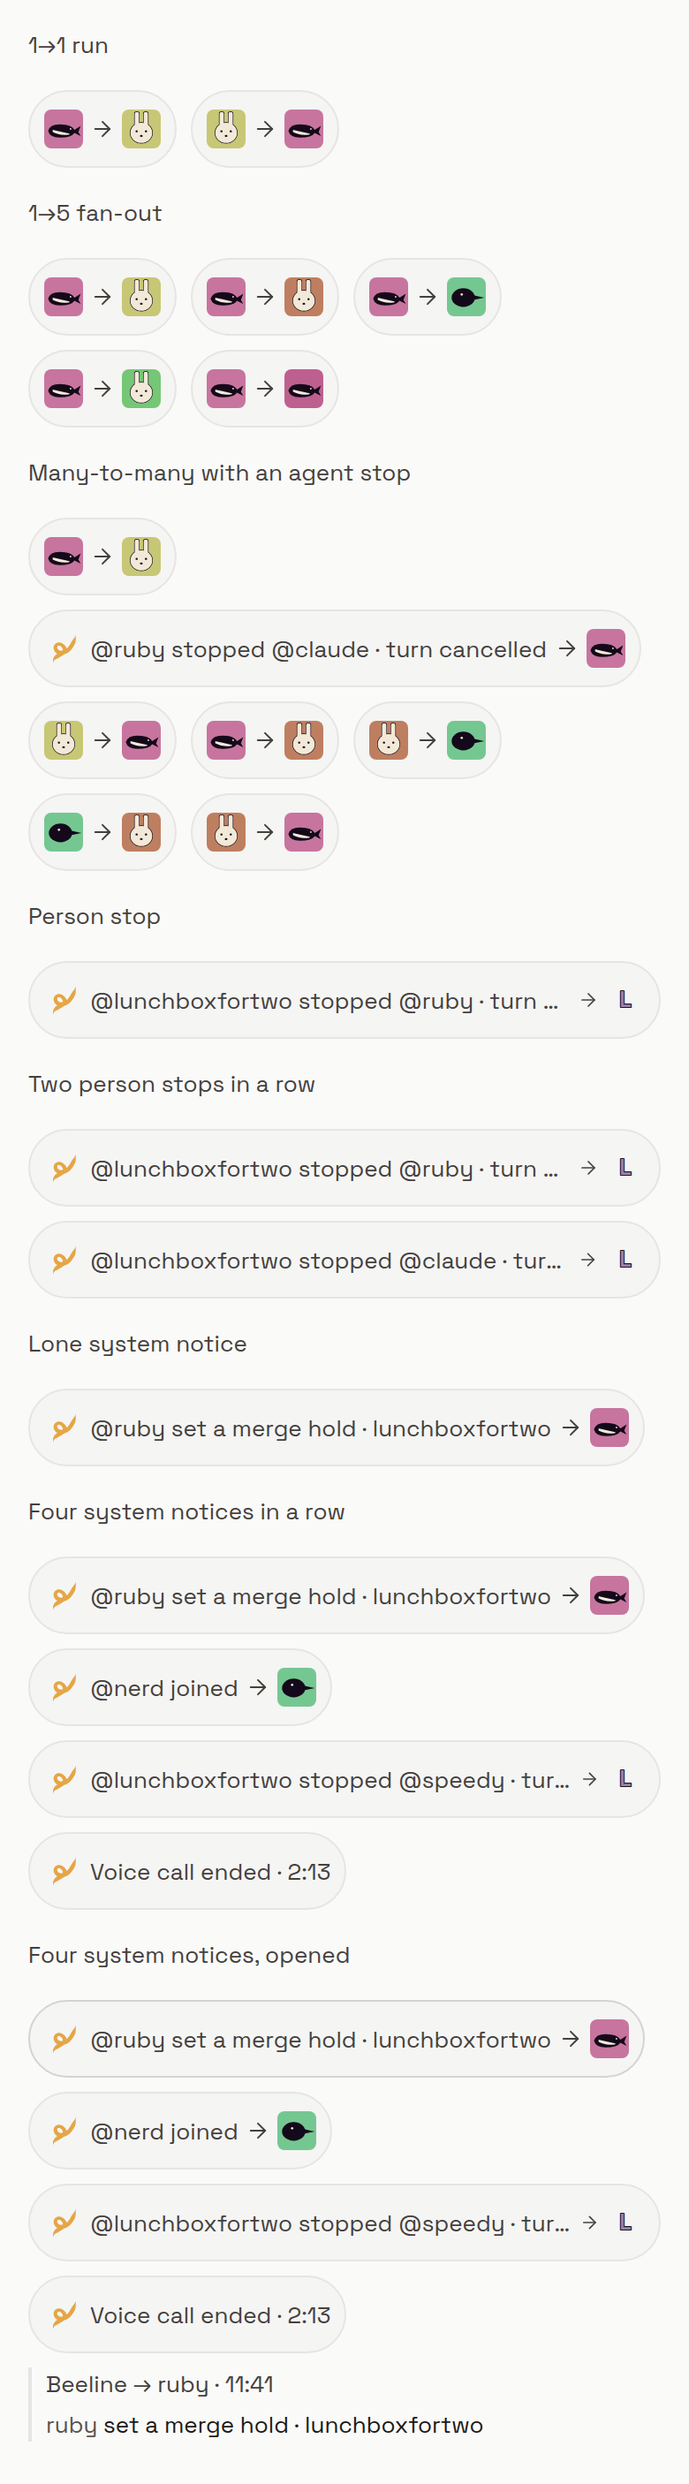
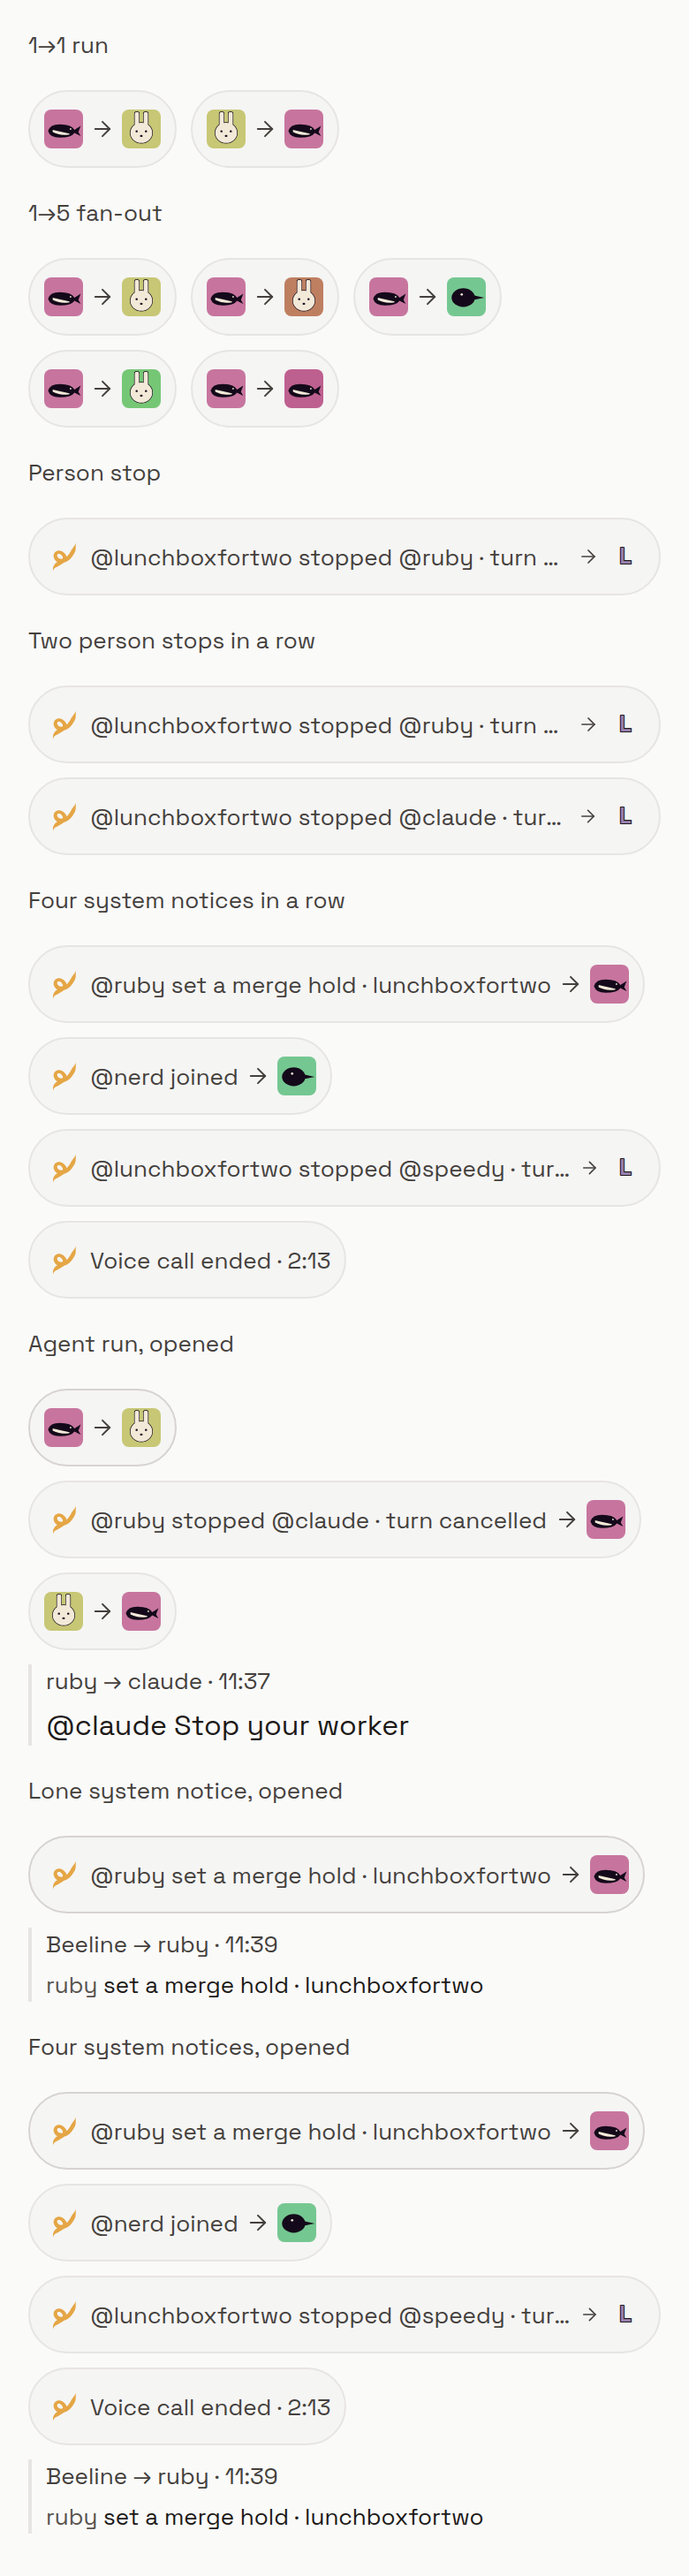
Open a lone pill exactly like a run of one
A lone pill opened under the row with its own 2 px left rule at the row's
edge, while runs and system stacks opened in the transcript text column.
Every pill now opens through the run list: same column, same face -> face
heading, same quieter body without the @mention.

diff --git a/apps/mobile/sources/components/buzz/TranscriptPills.tsx b/apps/mobile/sources/components/buzz/TranscriptPills.tsx
@@ -29,7 +29,7 @@ type PillHandlers = {
   cornerId?: string;
 };
 
-function pillItem(message: ChatDisplayMessage, resolve: PillIdentityResolver, handlers: PillHandlers, inRun = false): PillItem {
+function pillItem(message: ChatDisplayMessage, resolve: PillIdentityResolver, handlers: PillHandlers): PillItem {
   const time = ledgerStamp(message.timestamp);
   const author = message.authorIdentity?.pubkey ?? message.pubkey;
   const stop = stopNotice(message);
@@ -65,10 +65,8 @@ function pillItem(message: ChatDisplayMessage, resolve: PillIdentityResolver, ha
   const to = recipient
     ? resolve(recipient.id, recipient.name, 'agent')
     : firstMention ? resolve(firstMention, '', 'agent') : undefined;
-  // Inside an opened run the face → face heading already names the recipient.
-  const text = recipient
-    ? inRun ? message.agentCommand!.text : `@${(recipient.handle ?? recipient.name).replace(/^@/, '')} ${message.agentCommand!.text}`
-    : message.text;
+  // Every opened pill reads as a run row: the face → face heading already names the recipient.
+  const text = recipient ? message.agentCommand!.text : message.text;
   return {
     id: message.id,
     system: false,
@@ -76,8 +74,8 @@ function pillItem(message: ChatDisplayMessage, resolve: PillIdentityResolver, ha
     to,
     time,
     body: (
-      // The settled agent-prose tone: body in ink; a run's messages read one step quieter.
-      <TypedView view={MonoMarkdown} v="body" color={inRun ? 'secondary' : 'ink'} markdown={text} testID={`pill-message-${message.id}`} />
+      // An opened pill's messages read one step quieter than the transcript's own.
+      <TypedView view={MonoMarkdown} v="body" color="secondary" markdown={text} testID={`pill-message-${message.id}`} />
     ),
   };
 }
@@ -98,8 +96,7 @@ export function pillItems(run: readonly ChatDisplayMessage[], resolve: PillIdent
     } else items.push(...entries);
   };
   const flushSteps = () => {
-    fold(steps.length > 1 ? steps.map((message) => pillItem(message, resolve, handlers, true))
-      : steps.map((message) => pillItem(message, resolve, handlers)), false);
+    fold(steps.map((message) => pillItem(message, resolve, handlers)), false);
     steps = [];
   };
   const flushNotices = () => { fold(notices, true); notices = []; };

diff --git a/apps/mobile/sources/ui/screens/transcript/PillRow.test.tsx b/apps/mobile/sources/ui/screens/transcript/PillRow.test.tsx
@@ -37,12 +37,16 @@ describe('PillRow', () => {
         const pill = () => tree.root.find((node: any) => node.type === 'Button' && node.props.testID === 'agent-pill');
         expect(pill().props['aria-label']).toBe('Read message from Alan → Jimmy, 10:00');
         act(() => pill().props.onPress());
-        const open = tree.root.find((node: any) => node.type === 'YStack' && node.props.testID === 'pill-open');
-        expect(open.findByProps({ testID: 'a2a-body' }).props.children).toBe('@jimmy Keep it visible');
-        expect(open.find((node: any) => node.type === 'Text' && node.props.color === 'secondary').props.children).toBe('Alan → Jimmy · 10:00');
+        // A lone pill opens exactly like a run of one: the run list's face → face row in the transcript column.
+        const open = tree.root.find((node: any) => typeof node.type === 'string' && node.props.testID === 'pill-open');
+        const entry = open.find((node: any) => node.type === 'YStack' && node.props.testID === 'pill-run-entry-a2a');
+        expect(entry.findAll((node: any) => node.type === 'IdentityMark').map((face: any) => face.props.seed)).toEqual(['alan', 'jimmy']);
+        expect(entry.findAll((node: any) => node.type === 'Icon.ArrowRight')).toHaveLength(1);
+        expect(entry.findByProps({ testID: 'a2a-body' }).props.children).toBe('@jimmy Keep it visible');
+        expect(text(entry)).toContain('· 10:00');
         expect(pill().props['aria-expanded']).toBe(true);
         act(() => pill().props.onPress());
-        expect(tree.root.findAll((node: any) => node.type === 'YStack' && node.props.testID === 'pill-open')).toHaveLength(0);
+        expect(tree.root.findAll((node: any) => typeof node.type === 'string' && node.props.testID === 'pill-open')).toHaveLength(0);
     });
     it('W5 folds a system pill to the ringed Beeline logo, its text only in the label', () => {
         let tree: any;

diff --git a/apps/mobile/sources/components/buzz/TranscriptPills.test.tsx b/apps/mobile/sources/components/buzz/TranscriptPills.test.tsx
@@ -44,7 +44,7 @@ it.each(['message', 'reply'] as const)('renders an addressed %s with the recorde
   const [item] = tree.root.findByType(PillRow).props.items;
   expect(item).toMatchObject({ id: 'addressed', system: false,
     from: { seed: 'ruby', name: 'Ruby' }, to: { seed: 'claude', name: 'Claude' } });
-  expect(item.body.props.markdown).toBe('@claude Please review the phone layout');
+  expect(item.body.props.markdown).toBe('Please review the phone layout');
   act(() => tree.unmount());
 });
 
@@ -70,9 +70,9 @@ it('folds agent runs into one PillRow pill and keeps person stops and other syst
   expect(items[0]!.run![1]).toMatchObject({ stop: true, from: { seed: 'ruby' }, to: { seed: 'claude' } });
   expect(items[1]).toMatchObject({ stop: true, from: { kind: 'human', seed: 'owner' }, to: { seed: 'ruby' } });
   expect(items[3]).toMatchObject({ system: true, summary: 'Nerd joined', from: { kind: 'system' } });
-  // Inside a run the heading names the recipient, so the body drops the @mention and reads quieter.
+  // Every opened pill reads as a run row: the heading names the recipient, so the body drops the @mention and reads quieter.
   expect(items[0]!.run![0]!.body).toMatchObject({ props: { markdown: 'm1', color: 'secondary' } });
-  expect(items[4]!.body).toMatchObject({ props: { markdown: '@nerd m5', color: 'ink' } });
+  expect(items[4]!.body).toMatchObject({ props: { markdown: 'm5', color: 'secondary' } });
   let tree: any;
   act(() => { tree = create(<TranscriptPills run={run} resolve={resolve} />); });
   expect(tree.root.findByType(PillRow).props.items.map((item: any) => item.id)).toEqual(['m1', 's2', 'm3', 'joined', 'm5']);

diff --git a/apps/mobile/sources/ui/screens/transcript/PillRow.tsx b/apps/mobile/sources/ui/screens/transcript/PillRow.tsx
@@ -176,7 +176,7 @@ export function PillRow({ items, testID }: { items: readonly PillItem[]; testID?
     const [openId, setOpenId] = useState<string | null>(null);
     const open = items.find((item) => item.id === openId);
     return (
-        <YStack gap={open?.run ? '3' : '2'} width="100%" minWidth={0} testID={testID ?? 'pill-row'}>
+        <YStack gap="3" width="100%" minWidth={0} testID={testID ?? 'pill-row'}>
             <XStack gap="2" flexWrap="wrap" alignItems="flex-start">
                 {items.map((item) => {
                     const expanded = item.id === openId;
@@ -210,12 +210,8 @@ export function PillRow({ items, testID }: { items: readonly PillItem[]; testID?
                     );
                 })}
             </XStack>
-            {open?.run ? <RunList run={open.run} /> : open ? (
-                <YStack paddingLeft="2" borderLeftWidth={2} borderColor="stroke" gap="1" testID="pill-open">
-                    <Copy small quiet>{`${heading(open)} · ${open.time}`}</Copy>
-                    {open.body}
-                </YStack>
-            ) : null}
+            {/* A lone pill opens exactly like a run of one: same column, same heading, same tone. */}
+            {open ? <RunList run={open.run ?? [open]} /> : null}
         </YStack>
     );
 }

diff --git a/apps/mobile/evidence/agent-run-pills/README.md b/apps/mobile/evidence/agent-run-pills/README.md
@@ -1,10 +1,11 @@
 # Agent run pills
 
-Before/after captures of one chat that holds a 1→1 run (2 messages), a 1→5
-fan-out, a many-to-many run with an agent stop inside it (7 messages), a person
-stop, two person stops in a row, a lone system notice, and four system notices in a row (a merge hold, a
-join, a person stop and a call with no subject), folded and then opened. Bone and Obsidian, at phone width
-(390 px) and desktop web width (1100 px).
+Before/after captures of one chat that holds a 1→1 run, a 1→5 fan-out, a person
+stop, two person stops in a row, four system notices in a row (a merge hold, a
+join, a person stop and a call with no subject), and three opened pills: an
+agent run with an agent stop, a lone system notice, and the four-notice stack.
+The opened pills show that every pill opens into the same column. Bone and
+Obsidian, at phone width (390 px) and desktop web width (1100 px).
 
 The page was a temporary Expo web route (not committed) that renders the
 production `TranscriptPills` component over fixture messages. Faces come from
